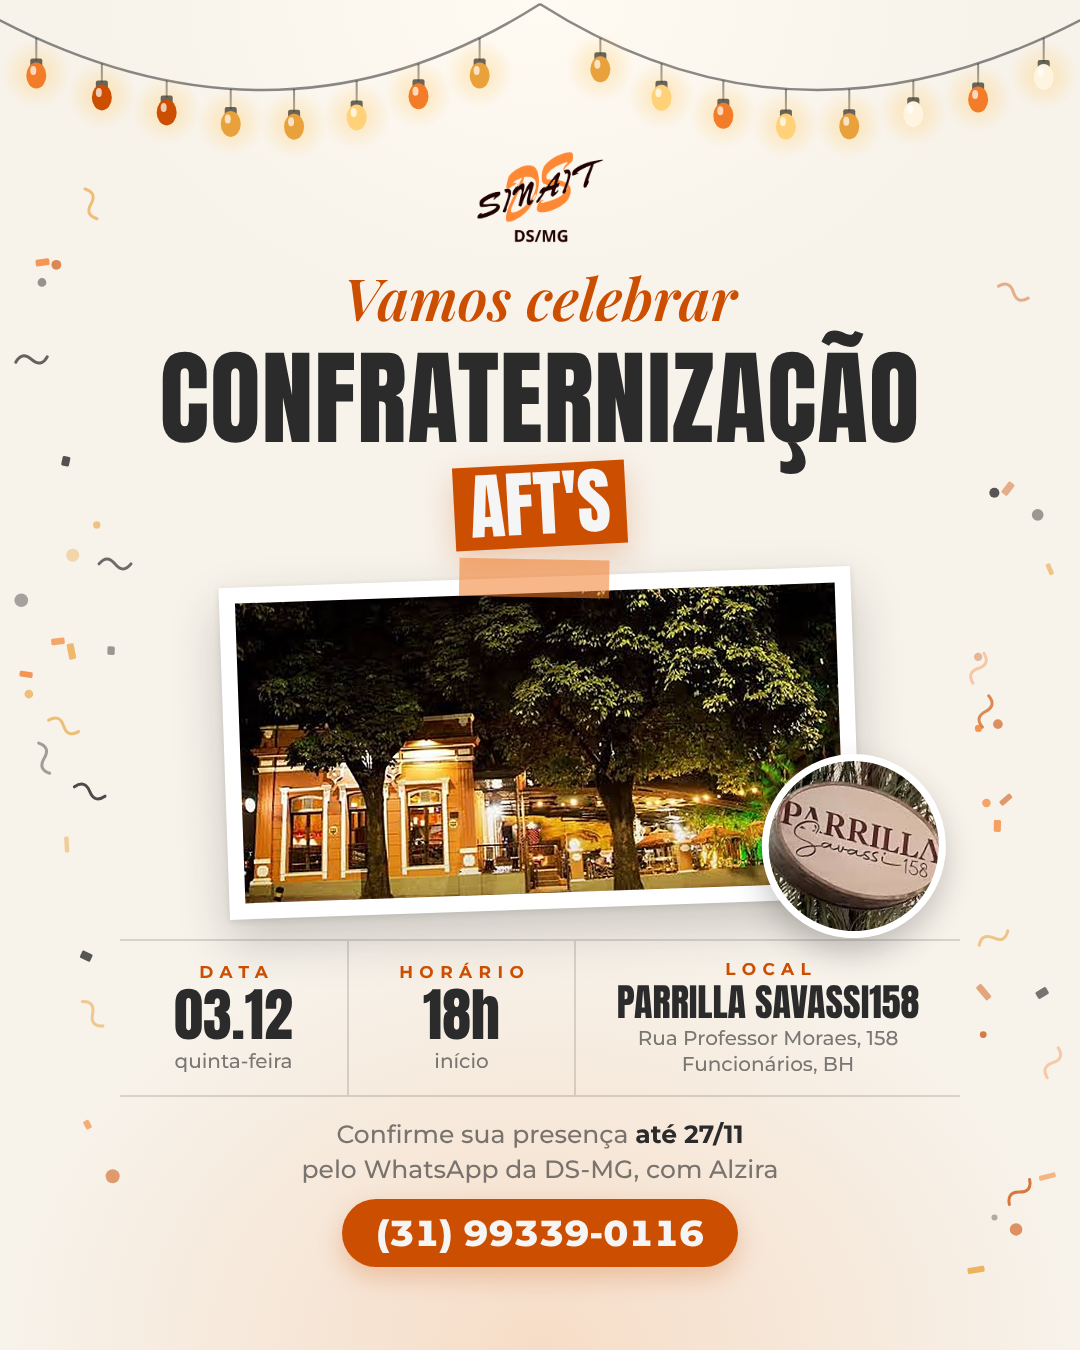
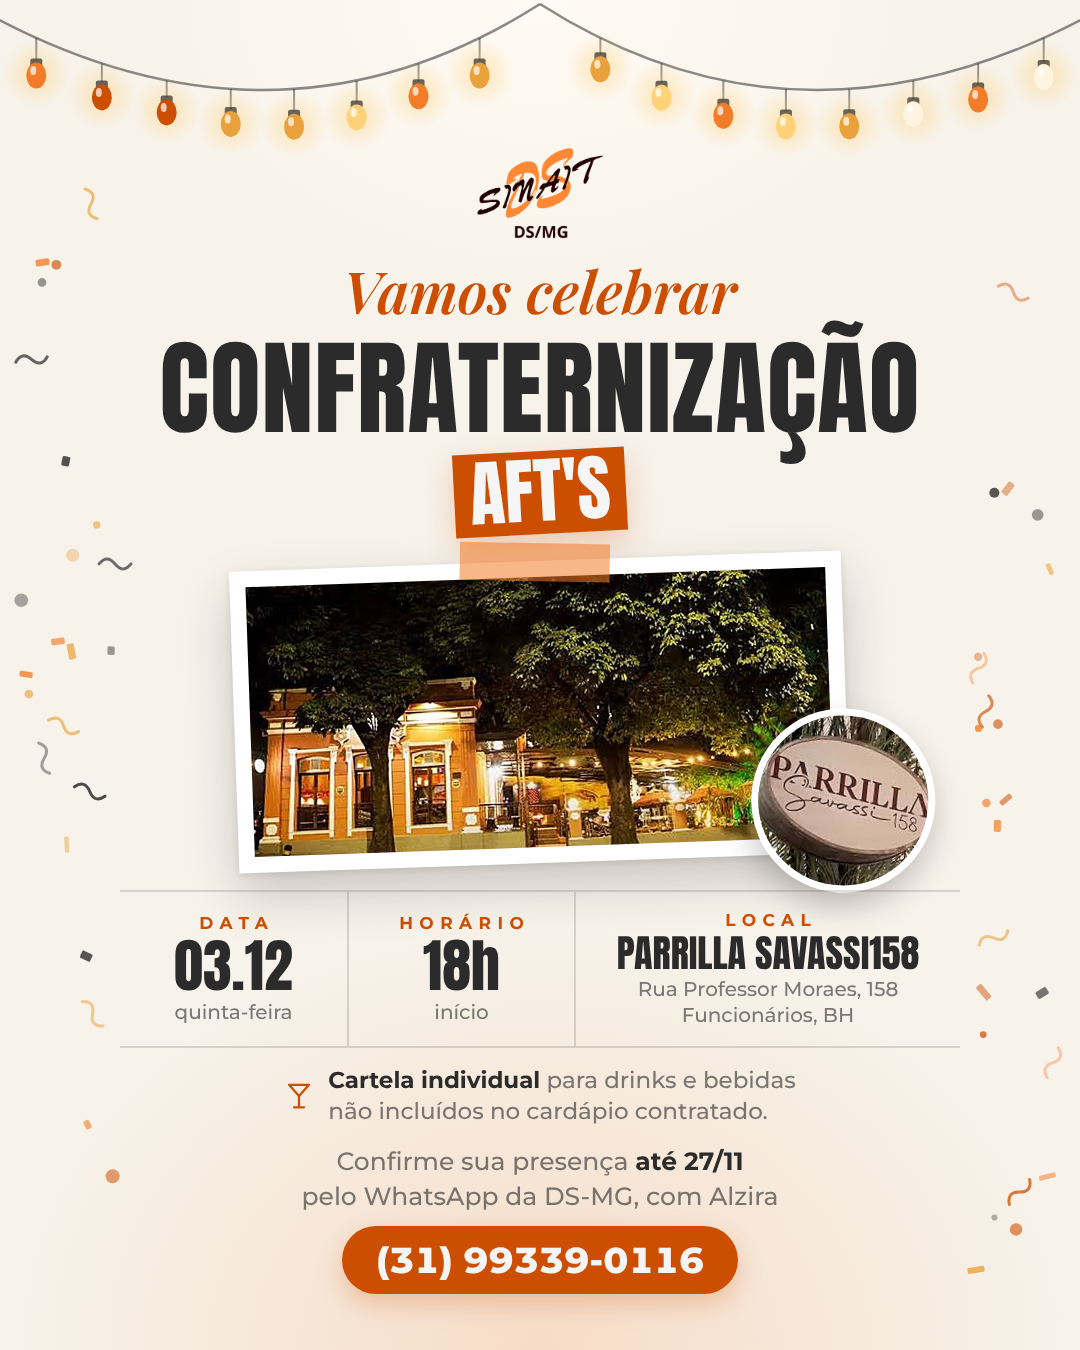
Inclui aviso da cartela individual de bebidas no convite festivo
Claude-Session: https://claude.ai/code/session_011HvaTJFJJFHDm1z7jLavn3

Changed region(s): [[0.1528, 0.0933, 0.8861, 0.9644]]

diff --git a/convite-confraternizacao-2026/convite-v3.html b/convite-confraternizacao-2026/convite-v3.html
@@ -29,7 +29,7 @@ body { background: #e9e3d9; color: var(--chumbo); font-family: var(--f-body); pa
 .slide { position: absolute; left: 0; top: 0; width: 1080px; transform-origin: 0 0; overflow: hidden; color: var(--chumbo); box-sizing: border-box;
   background: radial-gradient(70% 45% at 50% 100%, rgba(243,124,40,.18) 0%, transparent 70%), radial-gradient(60% 35% at 50% 0%, #fffaf2 0%, transparent 70%), var(--creme);
   display: flex; flex-direction: column; align-items: center; text-align: center; }
-.feed .slide { height: 1350px; padding: 150px 120px 70px; gap: 20px; }
+.feed .slide { height: 1350px; padding: 146px 120px 64px; gap: 17px; }
 .story .slide { height: 1920px; padding: 380px 110px 340px; gap: 22px; }
 body.export { padding: 0; background: var(--creme); }
 body.export .row { display: block; }
@@ -47,12 +47,12 @@ h1 { font-family: var(--f-display); font-weight: 400; text-transform: uppercase;
   font-family: var(--f-display); font-size: 72px; line-height: 1.05; text-transform: uppercase; box-shadow: 0 12px 30px rgba(204,78,0,.25); }
 
 .polaroid { position: relative; flex: none; background: #fff; padding: 16px 16px 16px; transform: rotate(-2deg); box-shadow: 0 22px 50px rgba(43,43,43,.22), 0 2px 6px rgba(43,43,43,.12); margin-block: 10px; }
-.polaroid img.fachada { display: block; width: 600px; height: 300px; object-fit: cover; object-position: 30% 80%; }
+.polaroid img.fachada { display: block; width: 580px; height: 270px; object-fit: cover; object-position: 30% 80%; }
 .polaroid .fita { position: absolute; top: -18px; left: 50%; width: 150px; height: 38px; margin-left: -75px; background: rgba(243,124,40,.55); transform: rotate(3deg); }
 .selo { position: absolute; right: -86px; bottom: -40px; width: 170px; height: 170px; border-radius: 50%; overflow: hidden; transform: rotate(8deg);
   border: 7px solid #fff; box-shadow: 0 14px 30px rgba(43,43,43,.25); }
 .selo img { width: 100%; height: 100%; object-fit: cover; }
-.story .polaroid img.fachada { width: 660px; height: 340px; }
+.story .polaroid img.fachada { width: 640px; height: 310px; }
 .story .selo { width: 200px; height: 200px; }
 
 .detalhes { width: 100%; display: grid; grid-template-columns: 1fr 1fr 1.7fr; border-top: 2px solid var(--linha); border-bottom: 2px solid var(--linha); }
@@ -63,6 +63,9 @@ h1 { font-family: var(--f-display); font-weight: 400; text-transform: uppercase;
 .val.local { font-size: 38px; text-transform: uppercase; }
 .det { font-size: 20px; font-weight: 500; color: var(--chumbo-60); line-height: 1.3; }
 
+.aviso { margin: 0; display: flex; align-items: center; gap: 14px; text-align: left; font-size: 23px; font-weight: 500; line-height: 1.35; color: var(--chumbo-60); max-width: 820px; }
+.aviso svg { flex: none; color: var(--laranja); }
+.aviso b { color: var(--chumbo); font-weight: 700; }
 .rsvp { display: flex; flex-direction: column; gap: 12px; align-items: center; }
 .rsvp p { margin: 0; font-size: 25px; font-weight: 500; line-height: 1.4; color: var(--chumbo-60); }
 .rsvp p b { color: var(--chumbo); font-weight: 700; }
@@ -138,6 +141,7 @@ const miolo = `
     <div><span class="rot">Horário</span><span class="val">18h</span><span class="det">início</span></div>
     <div><span class="rot">Local</span><span class="val local">Parrilla Savassi158</span><span class="det">Rua Professor Moraes, 158<br>Funcionários, BH</span></div>
   </div>
+  <p class="aviso"><svg width="30" height="30" viewBox="0 0 24 24" fill="none" stroke="currentColor" stroke-width="1.8" stroke-linecap="round" stroke-linejoin="round" aria-hidden="true"><path d="M4 3h16l-8 9z"/><path d="M12 12v8"/><path d="M8 21h8"/></svg><span><b>Cartela individual</b> para drinks e bebidas<br>não incluídos no cardápio contratado.</span></p>
   <div class="rsvp">
     <p>Confirme sua presença <b>até 27/11</b><br>pelo WhatsApp da DS-MG, com Alzira</p>
     <span class="tel">(31) 99339-0116</span>
